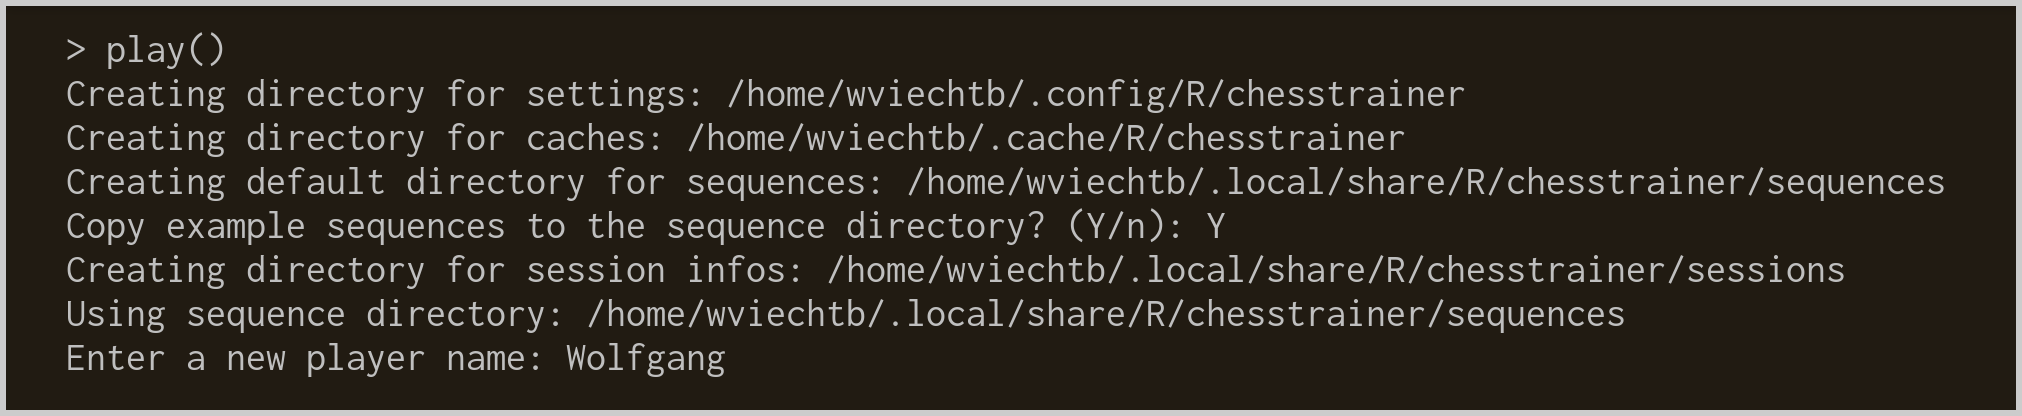
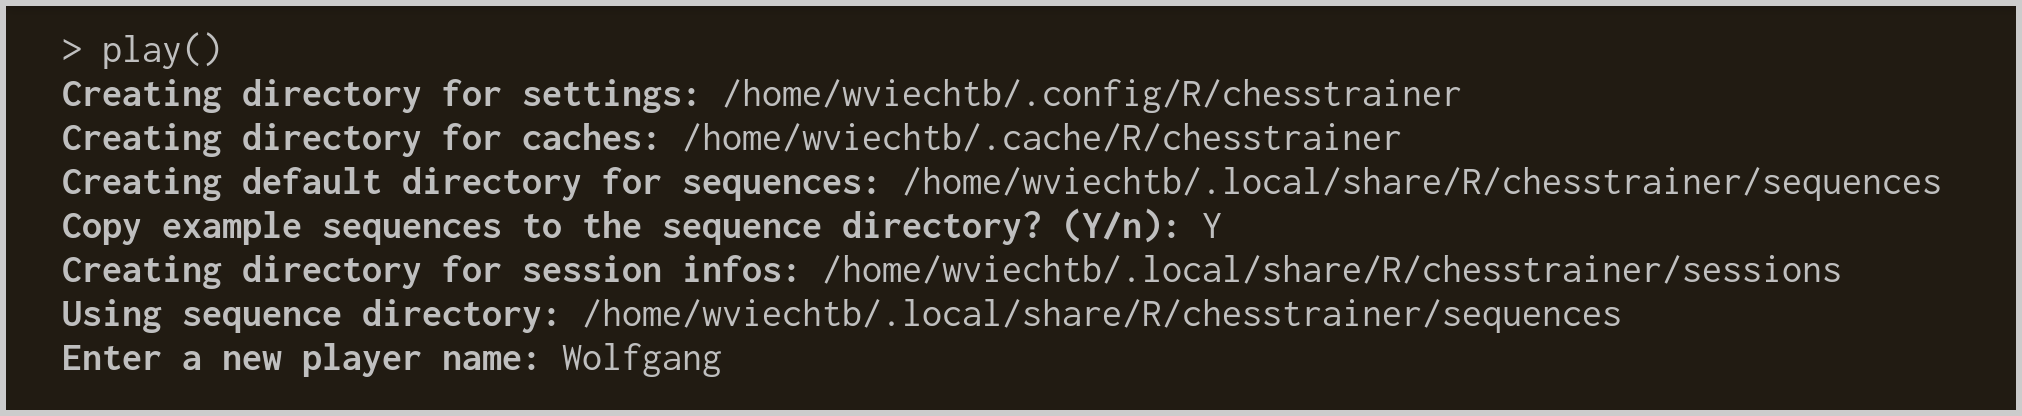
Improved startup information.

diff --git a/docs/reference/chesstrainer-package.html b/docs/reference/chesstrainer-package.html
@@ -31,7 +31,7 @@ The main purpose of the chesstrainer package is to create sequences of moves (li
       </button>
       <span class="navbar-brand">
         <a class="navbar-link" href="../index.html">chesstrainer</a>
-        <span class="version label label-default" data-toggle="tooltip" data-placement="bottom" title="">0.9-196</span>
+        <span class="version label label-default" data-toggle="tooltip" data-placement="bottom" title="">0.9-197</span>
       </span>
     </div>
 
@@ -90,7 +90,7 @@ The main purpose of the chesstrainer package is to create sequences of moves (li
 <p><img src="figures/console-first-run.png" width="900"></p>
 <p>The trainer then starts in <em>add mode</em> (see the ‘Note’ section at the bottom if you receive an error that the graphics device does not support event handling; for RStudio / Windows users, see also the ‘Note for RStudio / Windows Users’ section below). For now, click on the window showing the chess board and press <kbd>Space</kbd> (i.e., the space bar), which will switch to <em>test mode</em> (note: in this manual, key presses are indicated as <kbd>key</kbd>). One of the existing sequences will then be chosen at random. The trainer may immediately prompt you to play a certain opening (via a comment at the top of the window), it may make some moves for you, or it may start at a later position during a game. Either way, you will then have to make the correct move based on the position and instructions. You do this by either left-clicking and dragging the piece to be played from its current position to the desired target square or by left-clicking on the piece to be moved and then left-clicking on the target square.</p>
 <p><img src="figures/play-sequence.png" width="900"></p>
-<p>Sidenote: If the text on the bottom or other visual elements are cut off, you can use the <kbd>Ctrl</kbd> + <kbd>-</kbd> and <kbd>Ctrl</kbd> + <kbd>=</kbd> keys to decrease/increase the margin width. This is also possible by opening up the settings menu with <kbd>F5</kbd>.</p>
+<p><b>Sidenote:</b> If the text on the bottom or other visual elements are cut off, you can use the <kbd>Ctrl</kbd> + <kbd>-</kbd> and <kbd>Ctrl</kbd> + <kbd>=</kbd> keys to decrease/increase the margin width. This is also possible by opening up the settings menu with <kbd>F5</kbd>.</p>
 <p>The trainer will then make the next move, after which you will then again have to make the correct move. This will continue until the end of the sequence. If you do not know what the correct move is, pressing the <kbd>h</kbd> key will provide a hint showing which piece to move. Pressing <kbd>h</kbd> for a second time will show the target square. Once the sequence has ended, left-clicking starts a new sequence.</p>
 <p><img src="figures/get-hint.png" width="900"></p>
 <p>In <em>test mode</em>, information is shown at the bottom about the current mode, the name of the current sequence, the player name, the current move number and the total number of moves of the sequence, the number of rounds (how many times the sequence has been played so far), the age of the sequence (how many days ago the sequence was last played), the estimated difficulty of the sequence (see below), and the sequence score (also see below). Some elements at the bottom are clickable (e.g., clicking on ‘Mode’ toggles between the <em>test mode</em> and the <em>add mode</em>).</p>
@@ -242,6 +242,7 @@ The main purpose of the chesstrainer package is to create sequences of moves (li
 
 <p>When in <em>add mode</em>, <kbd>b</kbd> opens up a board editor. Here, you can quickly set up a more advanced position (e.g., for a chess puzzle). With left-click and drag, pieces can be moved around. With right-click and drag, you can copy a piece that is already on the board. A right-click without a drag (or moving a piece to the left or right of the board) deletes a piece. The <kbd>f</kbd> key flips the board. The <kbd>n</kbd> key resets the board into the starting position. The <kbd>c</kbd> key clears the board. The <kbd>s</kbd> key can be used to select which side plays the first move. With the <kbd>e</kbd> key, you can enter a FEN to set up the corresponding position. With <kbd>F1</kbd>, you can receive a help overlay. You can quit the board editor with <kbd>q</kbd> or <kbd>Escape</kbd>.</p>
 <p><img src="figures/boardeditor.png" width="900"></p>
+<p><b>Sidenote:</b> There is no possibility to enter en passant availability in the board editor. Instead, just set up the position right before the pawn move that would enable en passant, exit the board editor, make the pawn move, and hit the <kbd>0</kbd> key to make the current position the starting position.</p>
     </div>
     <div id="managing-and-selecting-players">
     <h2>Managing and Selecting Players</h2>
@@ -276,7 +277,7 @@ The main purpose of the chesstrainer package is to create sequences of moves (li
 
 
 <p>With <kbd>F4</kbd>, you can adjust the display settings (i.e., colors and text sizes). Depending on your screen resolution and size of the plotting window (where the board is shown), it may require some fiddling with the size settings to find a comfortable arrangement.</p>
-<p>With <kbd>F5</kbd>, various settings of the trainer can be adjusted. Most of these were already explained above or are self-explanatory. However, a few require explanation. The time between moves setting controls the delay for moves played by the trainer (this can also be adjusted outside of the <kbd>F5</kbd> menu with the <kbd>-</kbd> and <kbd>=</kbd> keys). The pause adjustment can be used in case that text shown at the top of the screen disappears too quickly (this seems to be an issue especially under Windows, in which case setting this to something like 0.3 should fix the issue).</p>
+<p>With <kbd>F5</kbd>, various settings of the trainer can be adjusted. Most of these were already explained above or are self-explanatory. However, a few require explanation. By default, the trainer waits in <em>test mode</em> after completing a sequences for user input before starting the next sequence (this can also be toggled outside of the <kbd>F5</kbd> menu with the <kbd>W</kbd> key). The time between moves setting controls the delay for moves played by the trainer (this can also be adjusted outside of the <kbd>F5</kbd> menu with the <kbd>-</kbd> and <kbd>=</kbd> keys). The pause adjustment can be used in case that text shown at the top of the screen disappears too quickly (this seems to be an issue especially under Windows, in which case setting this to something like 0.3 should fix the issue).</p>
 <p>With <kbd>F6</kbd>, you can adjust some miscellaneous settings, namely the score multiplier for completed sequences without mistakes (0.8 by default), the score penalty when making a wrong move (40 by default), the score penalty per hint (20 by default), the time per move for the <em>timed mode</em> (5 seconds by default), the number of next moves to show after searches (5 by default), the idle time (120 seconds by default; time without any inputs longer than this value is not counted towards the play time for the session history), the minimum session time (60 seconds by default; sessions shorter than this are not actually saved in the session history), the number of animation steps for the evaluation bar (5 by default), and the target value for the scores.</p>
 <p>With the <kbd>o</kbd> key, the FEN of the current position is printed to the console and the position is opened on the Lichess website for analysis. With <kbd>Ctrl</kbd> + <kbd>f</kbd>, the FEN is printed to the console and copied to the clipboard (this makes use of the <code><a href="http://matthewlincoln.net/clipr/reference/write_clip.html" class="external-link">write_clip</a></code> function from the <span class="pkg">clipr</span> package). With <kbd>Ctrl</kbd> + <kbd>c</kbd>, the current sequence name is printed and copied to the clipboard in <em>test mode</em>.</p>
 <p>With <kbd>F10</kbd> (or <kbd>Ctrl</kbd> + <kbd>1</kbd>), you can obtain histograms of the scores of the (selected) sequences, how many times they have been played so far (the number of rounds), how long ago they were played, their difficulty, and a scatterplot of the number of times they have been played versus their scores. In the scatterplot, the downward sloping dashed line indicates the best possible performance (i.e., never making a mistake when playing the sequence over and over) and the solid line indicates the actual performance (as estimated based on a regression model; only shown when there are 5 or more points). If a target value for the scores has been set (see above), this value is indicated as horizontal dotted line (and also as a vertical dotted line in the histogram of the scores).</p>

diff --git a/docs/news/index.html b/docs/news/index.html
@@ -29,7 +29,7 @@
       </button>
       <span class="navbar-brand">
         <a class="navbar-link" href="../index.html">chesstrainer</a>
-        <span class="version label label-default" data-toggle="tooltip" data-placement="bottom" title="">0.9-196</span>
+        <span class="version label label-default" data-toggle="tooltip" data-placement="bottom" title="">0.9-197</span>
       </span>
     </div>
 
@@ -73,7 +73,7 @@
     </div>
 
     <div class="section level2">
-<h2 class="page-header" data-toc-text="0.9-196" id="chesstrainer-09-196-2026-09-16">chesstrainer 0.9-196 (2026-09-16)<a class="anchor" aria-label="anchor" href="#chesstrainer-09-196-2026-09-16"></a></h2>
+<h2 class="page-header" data-toc-text="0.9-197" id="chesstrainer-09-197-2026-09-19">chesstrainer 0.9-197 (2026-09-19)<a class="anchor" aria-label="anchor" href="#chesstrainer-09-197-2026-09-19"></a></h2>
 <ul><li>lots of improvements since the initial version (way too many to list here)</li></ul></div>
     <div class="section level2">
 <h2 class="page-header" data-toc-text="0.1-0" id="chesstrainer-01-0-2024-12-17">chesstrainer 0.1-0 (2024-12-17)<a class="anchor" aria-label="anchor" href="#chesstrainer-01-0-2024-12-17"></a></h2>

diff --git a/docs/authors.html b/docs/authors.html
@@ -29,7 +29,7 @@
       </button>
       <span class="navbar-brand">
         <a class="navbar-link" href="index.html">chesstrainer</a>
-        <span class="version label label-default" data-toggle="tooltip" data-placement="bottom" title="">0.9-196</span>
+        <span class="version label label-default" data-toggle="tooltip" data-placement="bottom" title="">0.9-197</span>
       </span>
     </div>
 
@@ -88,13 +88,13 @@
 
     <p>Viechtbauer W (2026).
 <em>chesstrainer: Chess Trainer</em>.
-R package version 0.9-196, <a href="https://github.com/wviechtb/chesstrainer" class="external-link">https://github.com/wviechtb/chesstrainer</a>.
+R package version 0.9-197, <a href="https://github.com/wviechtb/chesstrainer" class="external-link">https://github.com/wviechtb/chesstrainer</a>.
 </p>
     <pre>@Manual{,
   title = {chesstrainer: Chess Trainer},
   author = {Wolfgang Viechtbauer},
   year = {2026},
-  note = {R package version 0.9-196},
+  note = {R package version 0.9-197},
   url = {https://github.com/wviechtb/chesstrainer},
 }</pre>
 

diff --git a/docs/404.html b/docs/404.html
@@ -52,7 +52,7 @@
       </button>
       <span class="navbar-brand">
         <a class="navbar-link" href="https://wviechtb.github.io/chesstrainer/index.html">chesstrainer</a>
-        <span class="version label label-default" data-toggle="tooltip" data-placement="bottom" title="">0.9-196</span>
+        <span class="version label label-default" data-toggle="tooltip" data-placement="bottom" title="">0.9-197</span>
       </span>
     </div>
 

diff --git a/docs/reference/cleanup.html b/docs/reference/cleanup.html
@@ -29,7 +29,7 @@
       </button>
       <span class="navbar-brand">
         <a class="navbar-link" href="../index.html">chesstrainer</a>
-        <span class="version label label-default" data-toggle="tooltip" data-placement="bottom" title="">0.9-196</span>
+        <span class="version label label-default" data-toggle="tooltip" data-placement="bottom" title="">0.9-197</span>
       </span>
     </div>
 

diff --git a/docs/reference/index.html b/docs/reference/index.html
@@ -29,7 +29,7 @@
       </button>
       <span class="navbar-brand">
         <a class="navbar-link" href="../index.html">chesstrainer</a>
-        <span class="version label label-default" data-toggle="tooltip" data-placement="bottom" title="">0.9-196</span>
+        <span class="version label label-default" data-toggle="tooltip" data-placement="bottom" title="">0.9-197</span>
       </span>
     </div>
 

diff --git a/docs/reference/install_mpg123.html b/docs/reference/install_mpg123.html
@@ -29,7 +29,7 @@
       </button>
       <span class="navbar-brand">
         <a class="navbar-link" href="../index.html">chesstrainer</a>
-        <span class="version label label-default" data-toggle="tooltip" data-placement="bottom" title="">0.9-196</span>
+        <span class="version label label-default" data-toggle="tooltip" data-placement="bottom" title="">0.9-197</span>
       </span>
     </div>
 

diff --git a/docs/reference/install_stockfish.html b/docs/reference/install_stockfish.html
@@ -29,7 +29,7 @@
       </button>
       <span class="navbar-brand">
         <a class="navbar-link" href="../index.html">chesstrainer</a>
-        <span class="version label label-default" data-toggle="tooltip" data-placement="bottom" title="">0.9-196</span>
+        <span class="version label label-default" data-toggle="tooltip" data-placement="bottom" title="">0.9-197</span>
       </span>
     </div>
 

diff --git a/docs/reference/play.html b/docs/reference/play.html
@@ -29,7 +29,7 @@
       </button>
       <span class="navbar-brand">
         <a class="navbar-link" href="../index.html">chesstrainer</a>
-        <span class="version label label-default" data-toggle="tooltip" data-placement="bottom" title="">0.9-196</span>
+        <span class="version label label-default" data-toggle="tooltip" data-placement="bottom" title="">0.9-197</span>
       </span>
     </div>
 

diff --git a/docs/reference/playsound.html b/docs/reference/playsound.html
@@ -29,7 +29,7 @@
       </button>
       <span class="navbar-brand">
         <a class="navbar-link" href="../index.html">chesstrainer</a>
-        <span class="version label label-default" data-toggle="tooltip" data-placement="bottom" title="">0.9-196</span>
+        <span class="version label label-default" data-toggle="tooltip" data-placement="bottom" title="">0.9-197</span>
       </span>
     </div>
 

diff --git a/docs/index.html b/docs/index.html
@@ -53,7 +53,7 @@
       </button>
       <span class="navbar-brand">
         <a class="navbar-link" href="index.html">chesstrainer</a>
-        <span class="version label label-default" data-toggle="tooltip" data-placement="bottom" title="">0.9-196</span>
+        <span class="version label label-default" data-toggle="tooltip" data-placement="bottom" title="">0.9-197</span>
       </span>
     </div>
 

diff --git a/NEWS.md b/NEWS.md
@@ -1,4 +1,4 @@
-# chesstrainer 0.9-196 (2026-09-19)
+# chesstrainer 0.9-197 (2026-09-19)
 
 - lots of improvements since the initial version (way too many to list here)
 
